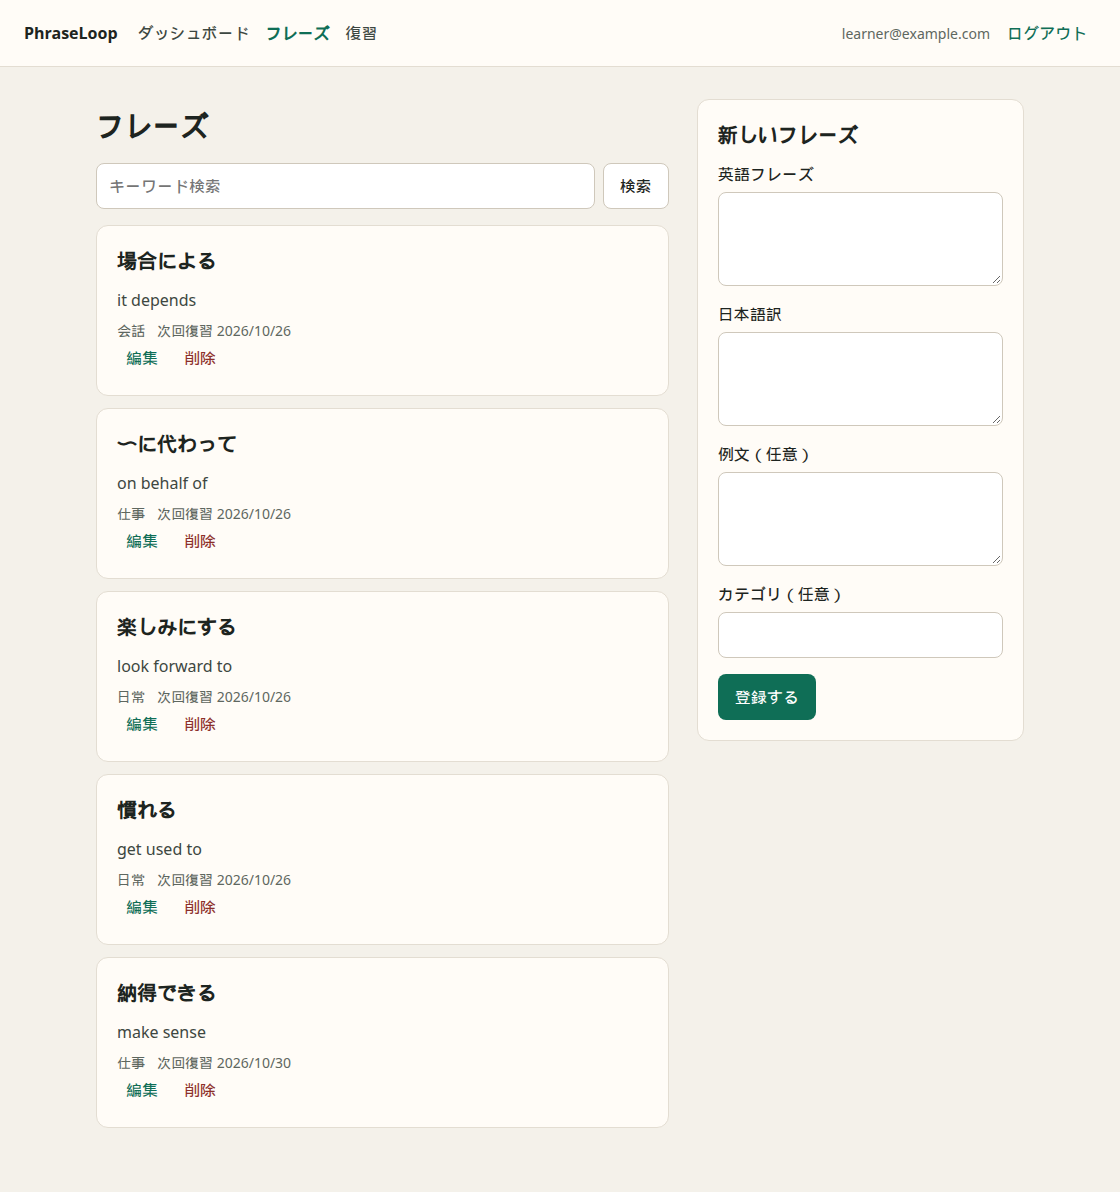
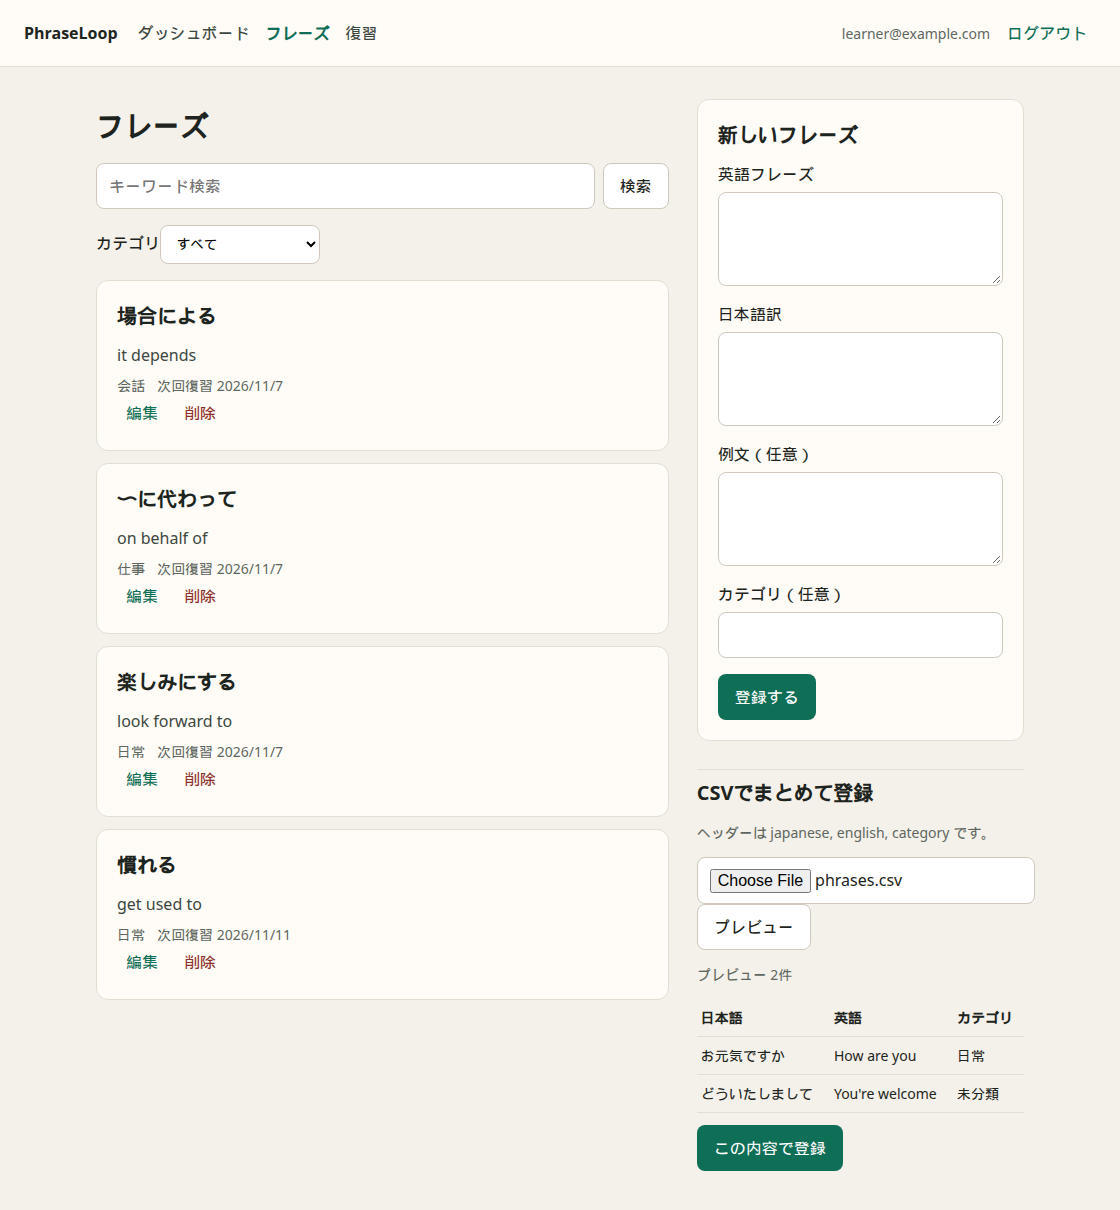
README の画面をカテゴリ絞り込み、CSV、復習設定に合わせる
説明文とスクリーンショット、復習の GIF を、いまの一覧と出題設定の画面に差し替える。

diff --git a/README.md b/README.md
@@ -14,19 +14,19 @@
 - 自己評価に応じた次回復習日の更新と、回答履歴の保存
 - ダッシュボードに、今日の件数、登録数、習得済み数、連続日数、当月の復習カレンダー
 
-入力した英文は保存しません。比較は送信前の画面だけで行い、サーバーが受け取るのは自己評価だけです。カテゴリ、CSV、出題数のルールは「要件: カテゴリ別の一覧と復習」に書きます。下の画面は、カテゴリの絞り込み、CSV 登録、復習の出題設定を入れる前のものです。
+入力した英文は保存しません。比較は送信前の画面だけで行い、サーバーが受け取るのは自己評価だけです。カテゴリ、CSV、出題数のルールは「要件: カテゴリ別の一覧と復習」に書きます。
 
 メールアドレスとパスワードでアカウントを作ります。
 
 ![新規登録](docs/images/register.png)
 
-フレーズは英語、日本語訳、例文、カテゴリで登録します。一覧から検索、編集、削除できます。
+フレーズは英語、日本語訳、例文、カテゴリで登録します。一覧はカテゴリで絞れます。CSV のヘッダーは `japanese`、`english`、`category` で、空のカテゴリはプレビューでは「未分類」と出ます。
 
-![フレーズの登録と一覧](docs/images/phrases.png)
+![フレーズの一覧、カテゴリの絞り込み、CSVのプレビュー](docs/images/phrases.png)
 
-復習は日本語だけを先に出します。英語を入力してから、模範解答と例文を開きます。
+復習を始める前に、カテゴリと出題数を選びます。選んだカテゴリの件数が 10 問より少ないときは、その全部を出します。日本語を見て英語を入力し、模範解答を開きます。
 
-![復習の流れ。日本語を見て英語を入力し、模範解答を表示する](docs/images/review.gif)
+![復習の設定から、英語の入力、模範解答の表示まで](docs/images/review.gif)
 
 自分の回答と模範解答を並べてから、「覚えた」か「まだ覚えていない」を選びます。
 
